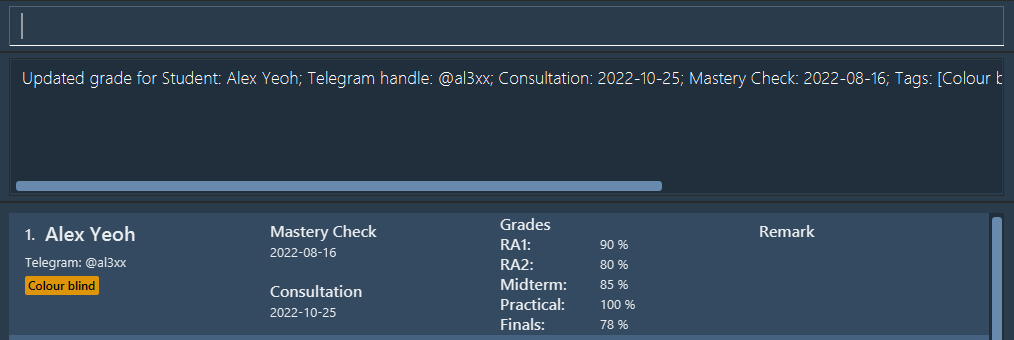
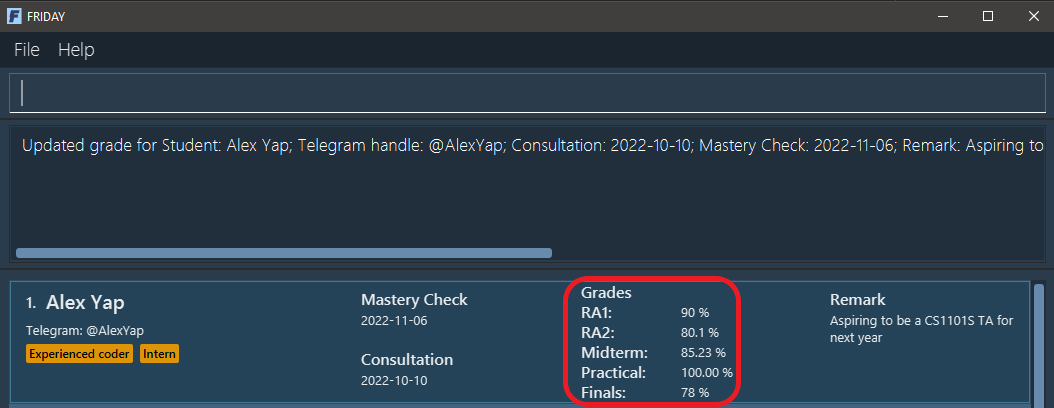
Update Edit, Remark and Grade commands in UG

diff --git a/docs/UserGuide.md b/docs/UserGuide.md
@@ -125,8 +125,8 @@ Format: `edit INDEX [n/NAME] [t/TELEGRAM_HANDLE] [c/CONSULTATION] [m/MASTERY_CHE
 <div markdown="block" class="alert alert-info">
 **:information_source: Note:** <br>
 * The index of the student must be specified and there should be exactly one INDEX parameter.
-* You can choose which field to edit for the student. Name, Telegram handle, consultation, Mastery Check, and tag(s) are optional, but there should be at least one parameter for the `edit` command to be valid..<br>
-
+* You can choose which field to edit for the student. Name, Telegram handle, consultation, Mastery Check, and tag(s) are 
+optional fields, but there should be at least one field specified for the `edit` command to be valid.<br>
 </div>
 
 <div markdown="span" class="alert alert-primary">:bulb: **Tip:** <br>
@@ -134,17 +134,37 @@ Format: `edit INDEX [n/NAME] [t/TELEGRAM_HANDLE] [c/CONSULTATION] [m/MASTERY_CHE
 * A student can have any number of tags (including 0).
 </div>
 
+Example: `edit 1 n/Alex Yap t/AlexYap tag/Experienced coder tag/Intern m/2022-11-06 c/2022-10-10`
+
+Initial: A student with name "Alex Yeoh", with the following details: Telegram handle as "@al3xx", Mastery Check date 
+on 2022-08-16, consultation date on 2022-11-11, and a tag "Colour blind".
+![EditCommandInitial.png](images/EditCommandInitial.png)
+
+Outcome: Student's name changed to "Alex Yap", along with the following changed details: Telegram handle as "@AlexYap", 
+Mastery Check date as 2022-11-06, consultation date as 2022-10-10, and tags as "Experienced coder" and "Intern".
+![EditCommandOutcome.png](images/EditCommandOutcome.png)
+
 ### Editing a remark for a student: `remark`
 
 Adds a remark for a specified student.
 
 Format: `remark INDEX [r/REMARK]`
 
-<div markdown="span" class="alert alert-primary">:bulb: **Tip:**
-The index of the student must be specified and there should be exactly one INDEX parameter.<br>
-The index of the student can be seen from the student list.<br>
-The remark is optional. Not including the remark (i.e. `remark INDEX`) will remove any existing remark from the student.<br>
+<div markdown="block" class="alert alert-info">
+**:information_source: Note:** <br>
+* The index of the student must be specified and there should be exactly one INDEX parameter.
 </div>
+
+<div markdown="span" class="alert alert-primary">:bulb: **Tip:**<br>
+* The index of the student can be seen from the student list.<br>
+* The remark is optional. If you do not include the remark (i.e. input `remark INDEX` as your command), FRIDAY will 
+remove any existing remark for the specified student.<br>
+</div>
+
+Example: `remark 1 r/Aspiring to be a CS1101S TA for next year`
+
+Outcome: The student at the 1st index (Alex Yap) will have the remark "Aspiring to be a CS1101S TA for next year".
+![RemarkCommandOutcome.png](images/RemarkCommandOutcome.png)
 
 ### Recording grades for a student: `grade`
 
@@ -152,14 +172,28 @@ Records the grades of the assessments and examinations for a specified student.
 
 Format: `grade INDEX [ra1/RA1_SCORE] [ra2/RA2_SCORE] [pa/PRACTICAL_SCORE] [mt/MID_TERM_SCORE] [ft/FINALS_SCORE]`
 
-<div markdown="span" class="alert alert-primary">:bulb: **Tip:**
-The index of the student must be specified and there should be exactly one INDEX parameter.<br>
-The index of the student can be seen from the student list.<br>
-The scores of the assessments, Reading Assessment 1 (RA1), Reading Assessment 2 (RA2), Practical Assessment (PA), Midterm Test, and Final Examination, are in percentages between 0% to 100% inclusive, with up to 2 decimals allowed.<br>
-The scores are optional, but there should be at least one parameter.
+* The examinations and their associated prefixes are:
+  * Reading Assessment 1 - `ra1`
+  * Reading Assessment 2 - `ra2`
+  * Practical Assessment - `pa`
+  * Midterm Test - `mt`
+  * Final Test `ft`
+
+<div markdown="block" class="alert alert-info">
+**:information_source: Note:** <br>
+* The index of the student must be specified and there should be exactly one INDEX parameter.
+* The scores of the assessments must be numerical as percentages, i.e. between 0% and 100% inclusive, with up to 2
+decimal places allowed. `0`, `100.00` and `69.1` are examples of valid scores.
 </div>
 
-Example after entering `grade 1 ra1/90 ra2/80 pa/100 mt/85 ft/78`:
+<div markdown="span" class="alert alert-primary">:bulb: **Tip:**<br>
+* The index of the student can be seen from the student list.
+* The scores are optional, but there should be at least one score specified for `grade` command to be valid.
+</div>
+
+Example:`grade 1 ra1/90 ra2/80.1 pa/100.00 mt/85.23 ft/78`
+
+Outcome: The student at the 1st index (Alex Yap) will have their grades updated.
 ![GradeCommand.png](images/GradeCommand.png)
 
 ### Finding individual student details: `find`
